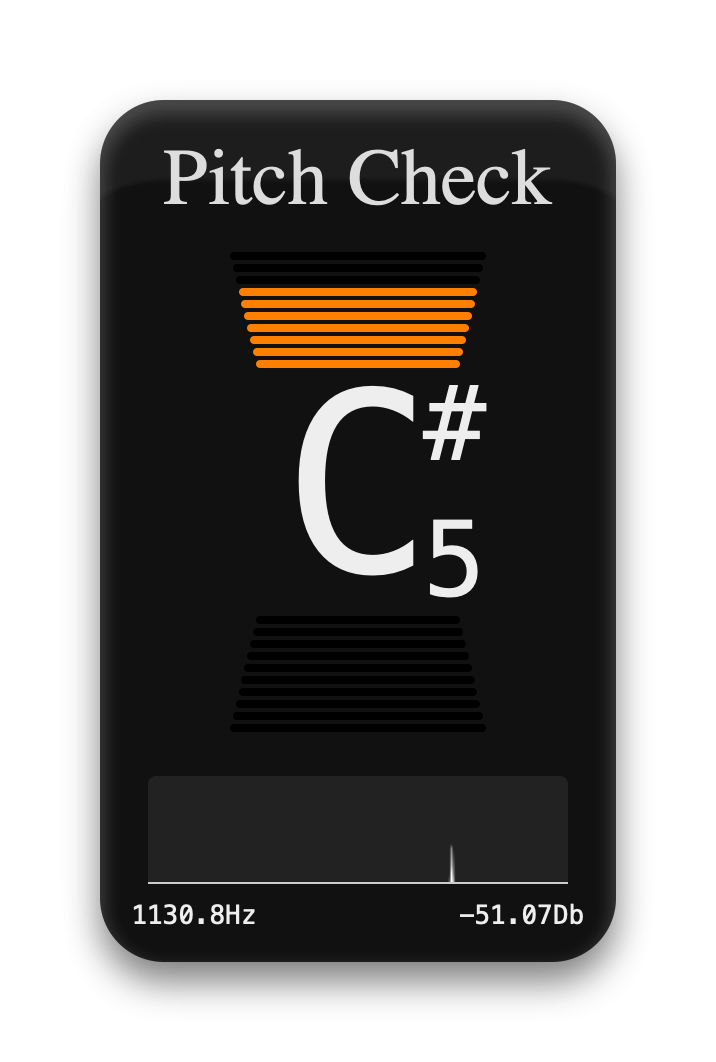
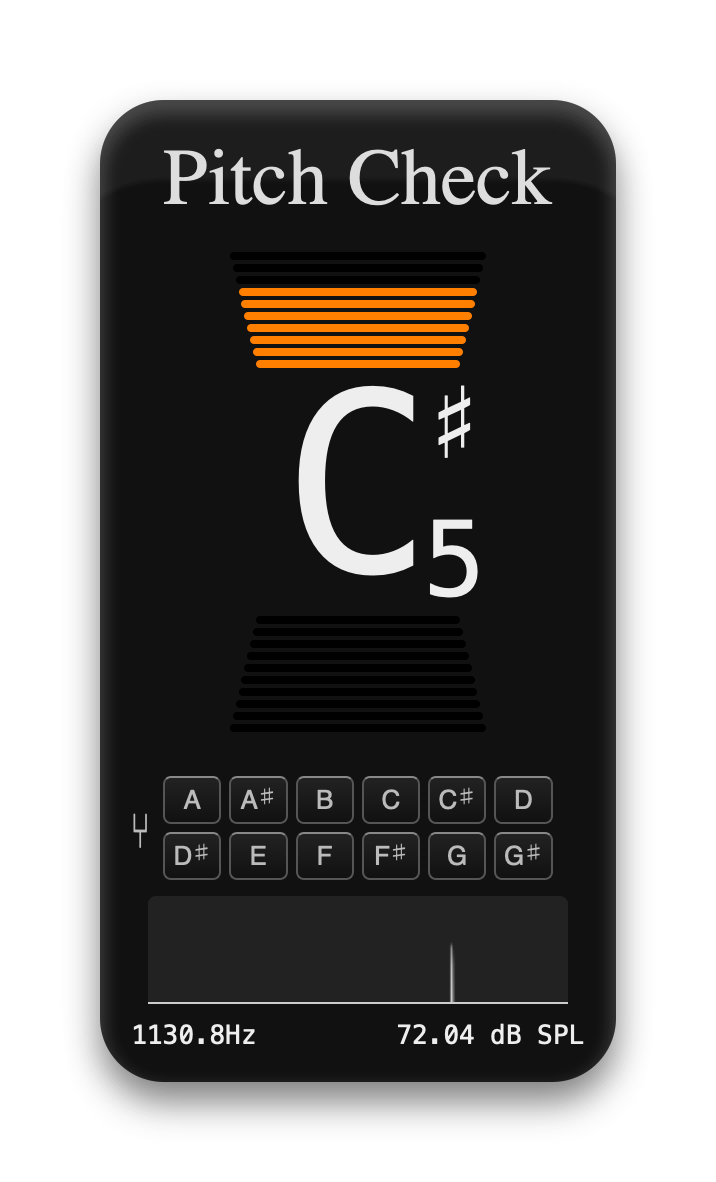
Update preview screenshot

diff --git a/index.js b/index.js
@@ -65,6 +65,8 @@ function getTotalDb(values, hzConv) {
 
 function getTestSource(audioContext) {
 	const audioSource = new OscillatorNode(audioContext, { frequency: 1e-2 });
+	const gainNode = new GainNode(audioContext, { gain: 0.125 });
+	audioSource.connect(gainNode);
 	audioSource.start();
 
 	const freqIn = document.createElement('input');
@@ -85,7 +87,7 @@ function getTestSource(audioContext) {
 	});
 	document.body.appendChild(freqIn);
 
-	return audioSource;
+	return gainNode;
 }
 
 const playing = new Set();
